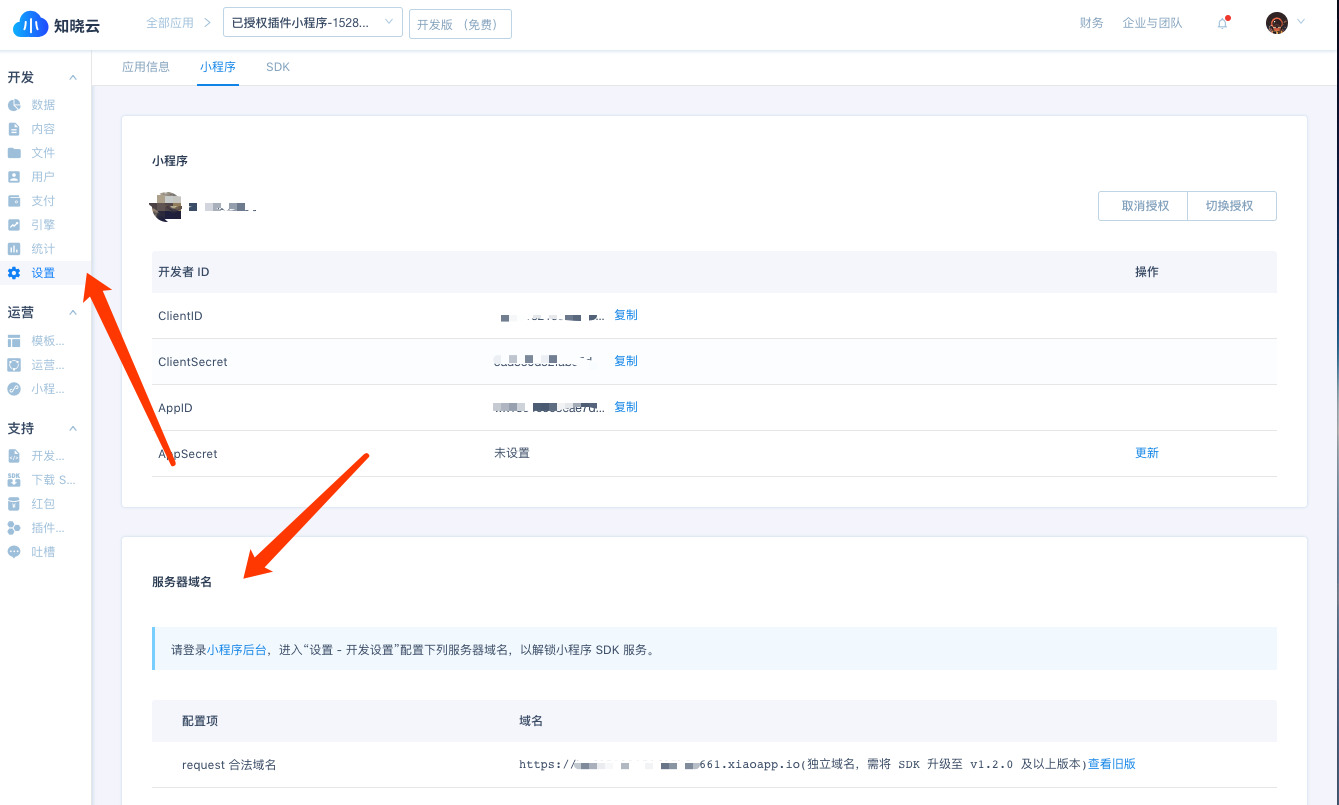
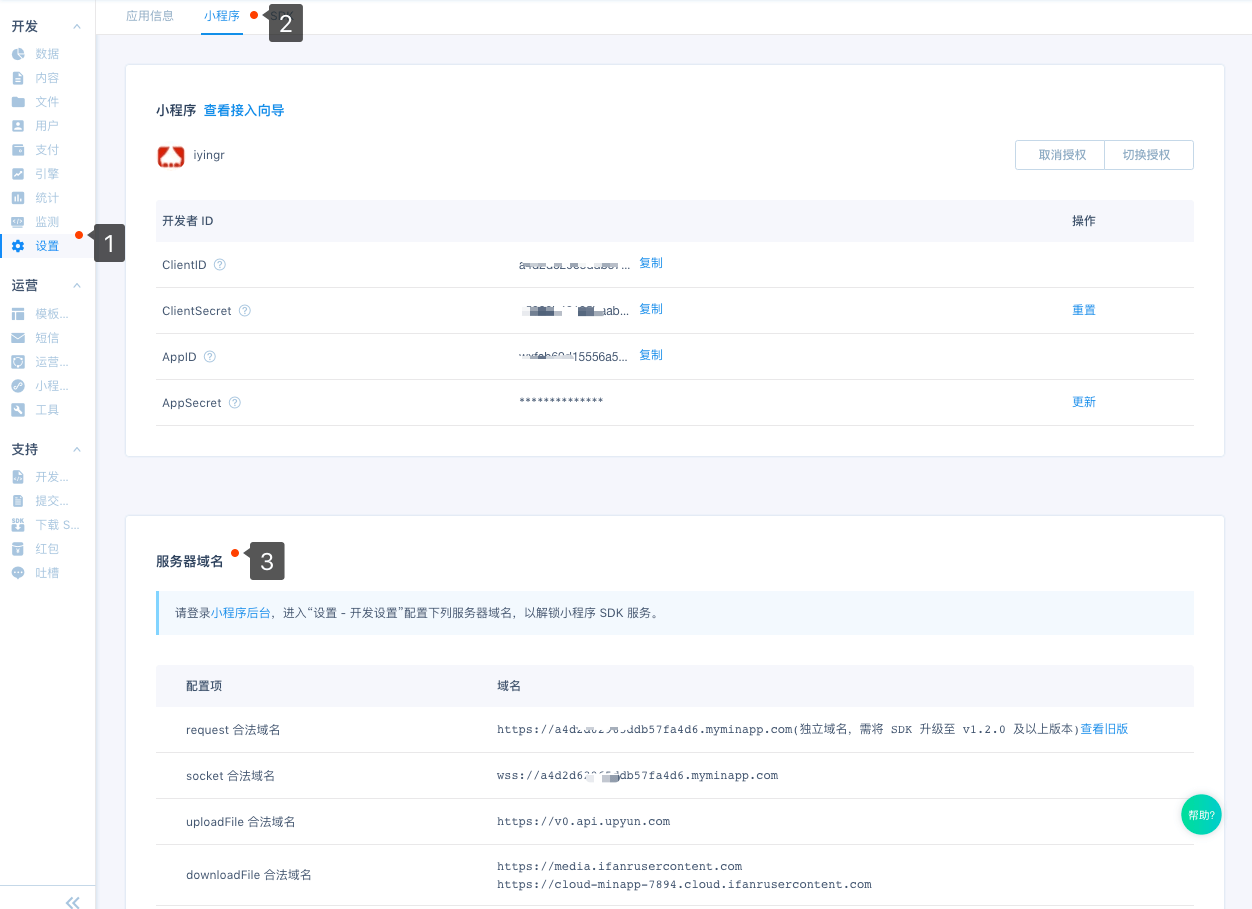
更新域名迁移相关说明

diff --git a/js-sdk/download-sdk.md b/js-sdk/download-sdk.md
@@ -8,6 +8,11 @@
 
 ### 更新注意事项
 
+> **danger**
+> 由于 io 域名的备案问题，请在 2019 年 6 月前完成 SDK 升级及域名替换
+
+- 从 SDK v1.13.0 开始，API 域名改为 `${clientID}.myminapp.com`，由于 io 域名的备案问题，请在 2019 年 6 月前完成 SDK 升级及域名替换。
+
 - 从 SDK v1.2.0 开始，我们为每一个应用分配了一个**专属独立域名**：`${clientID}.xiaoapp.io`。旧版本 SDK 升级到 1.2.0 及以上版本，需到微信小程序管理后台的【设置】-【开发设置】-【服务器域名】处**更新 request 合法域名**为新的独立域名。最新的独立域名地址在知晓云控制台[应用设置页面](https://cloud.minapp.com/dashboard/#/app/settings/app/)查看获取
 
 - <p style='color:red'>1.2.0 版本统一了用户 user_id 字段的格式，原登录接口返回的 String 类型现与其他方法返回统一为 Number 类型，升级到该版本及以上版本注意测试这一块的兼容性。</p>

diff --git a/newbies/README.md b/newbies/README.md
@@ -208,6 +208,7 @@ App({
 })
 </code>
 </pre>
+
 ### 2、创建数据表
 
 完成知晓云的初始化配置后，开发者就可以根据自身应用的业务逻辑，确定所需的数据表，确定好后即可在**知晓云后台 >> 数据管理模块**开始数据表的创建工作。
